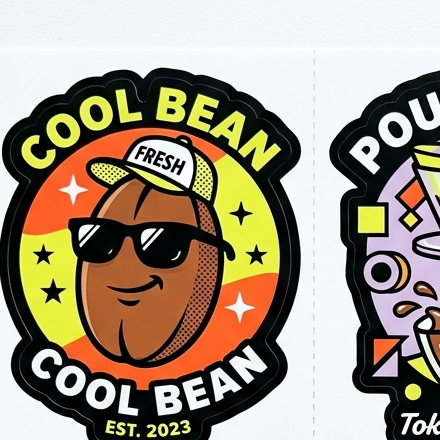
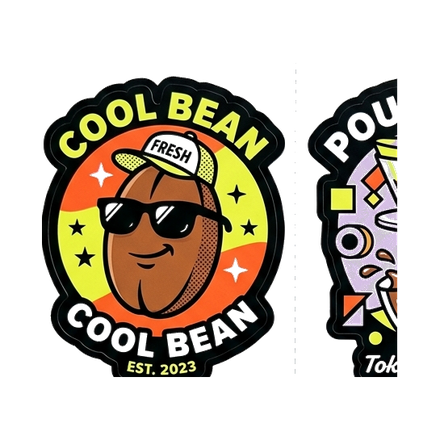
feat: process card assets to 1:1 square RGBA with clean alpha masking

diff --git a/scripts/process_card_assets.py b/scripts/process_card_assets.py
@@ -1,0 +1,92 @@
+"""
+Process card assets for BeanTag.
+- Converts opaque hero/metric backgrounds to transparent RGBA with 15-step color feathering.
+- Calculates tight getbbox() of visible content.
+- Centers cropped illustration into a 1:1 square canvas with balanced 12% padding.
+- Normalizes size to 440x440 px with LANCZOS resampling.
+- Saves back with optimize=True.
+"""
+import os
+from PIL import Image
+
+CARDS_DIR = os.path.abspath(
+    os.path.join(os.path.dirname(__file__), "..", "frontend", "src", "assets", "cards")
+)
+
+# Color key definitions for opaque hero backgrounds
+HERO_BG_COLORS = {
+    "blueprint_hero.png": (2, 28, 51),
+    "neobrutalist_hero.png": (235, 240, 244),
+    "aurora_hero.png": (29, 32, 39),
+    "hangtag_hero.png": (246, 240, 228),
+}
+
+
+def remove_background(img: Image.Image, bg_color: tuple, tolerance: float = 35.0) -> Image.Image:
+    img = img.convert("RGBA")
+    data = img.get_flattened_data() if hasattr(img, "get_flattened_data") else img.getdata()
+    new_data = []
+    br, bg, bb = bg_color[:3]
+    for item in data:
+        r, g, b, a = item
+        # Euclidean color distance in RGB space
+        dist = ((r - br) ** 2 + (g - bg) ** 2 + (b - bb) ** 2) ** 0.5
+        if dist < tolerance:
+            new_data.append((r, g, b, 0))
+        elif dist < tolerance + 15:
+            # Smooth 15-step feathering gradient
+            feathered_alpha = int(255 * ((dist - tolerance) / 15.0))
+            new_data.append((r, g, b, min(a, feathered_alpha)))
+        else:
+            new_data.append((r, g, b, a))
+    img.putdata(new_data)
+    return img
+
+
+def make_square_centered(img: Image.Image, padding_ratio: float = 0.12) -> Image.Image:
+    bbox = img.getbbox()
+    if not bbox:
+        return img
+    cropped = img.crop(bbox)
+    cw, ch = cropped.size
+    max_dim = max(cw, ch)
+    target_dim = int(max_dim * (1 + padding_ratio * 2))
+
+    square = Image.new("RGBA", (target_dim, target_dim), (0, 0, 0, 0))
+    offset_x = (target_dim - cw) // 2
+    offset_y = (target_dim - ch) // 2
+    square.paste(cropped, (offset_x, offset_y), cropped)
+    return square
+
+
+def process_all_assets():
+    if not os.path.exists(CARDS_DIR):
+        raise FileNotFoundError(f"Cards directory not found: {CARDS_DIR}")
+
+    files = sorted([f for f in os.listdir(CARDS_DIR) if f.endswith(".png")])
+    print(f"Processing {len(files)} card assets from {CARDS_DIR}...")
+
+    for filename in files:
+        filepath = os.path.join(CARDS_DIR, filename)
+        img = Image.open(filepath).convert("RGBA")
+
+        # 1. Background removal if hero or opaque metric
+        if filename in HERO_BG_COLORS:
+            img = remove_background(img, HERO_BG_COLORS[filename])
+        elif img.getpixel((0, 0))[3] == 255:
+            corner_color = img.getpixel((0, 0))[:3]
+            img = remove_background(img, corner_color)
+
+        # 2. Re-center in square canvas with balanced 12% padding
+        square_img = make_square_centered(img, padding_ratio=0.12)
+
+        # 3. Normalize size to 440x440 with LANCZOS resampling
+        final_img = square_img.resize((440, 440), Image.Resampling.LANCZOS)
+
+        # 4. Save back with optimize=True
+        final_img.save(filepath, "PNG", optimize=True)
+        print(f"✓ Processed: {filename} -> 440x440 RGBA (optimized)")
+
+
+if __name__ == "__main__":
+    process_all_assets()

diff --git a/scripts/test_asset_processing.py b/scripts/test_asset_processing.py
@@ -1,0 +1,86 @@
+"""
+Test suite for card asset processing.
+Verifies:
+1. Exactly 21 PNG files exist in frontend/src/assets/cards/.
+2. Every image is square (width == height).
+3. Every image is in mode 'RGBA'.
+4. The 4 corners of every image have alpha == 0 (fully transparent background).
+"""
+import os
+import unittest
+from PIL import Image
+
+CARDS_DIR = os.path.abspath(
+    os.path.join(os.path.dirname(__file__), '..', 'frontend', 'src', 'assets', 'cards')
+)
+
+
+class TestAssetProcessing(unittest.TestCase):
+    @classmethod
+    def setUpClass(cls):
+        cls.files = sorted([f for f in os.listdir(CARDS_DIR) if f.endswith('.png')])
+
+    def test_file_count(self):
+        """1. Exactly 21 PNG files exist in frontend/src/assets/cards/."""
+        self.assertEqual(
+            len(self.files),
+            21,
+            f"Expected 21 PNG files in {CARDS_DIR}, found {len(self.files)}: {self.files}"
+        )
+
+    def test_images_are_square(self):
+        """2. Every image is square (width == height)."""
+        non_square = []
+        for filename in self.files:
+            filepath = os.path.join(CARDS_DIR, filename)
+            with Image.open(filepath) as img:
+                w, h = img.size
+                if w != h:
+                    non_square.append(f"{filename} ({w}x{h})")
+        self.assertEqual(
+            len(non_square),
+            0,
+            f"Expected all images to be square, but found non-square images: {non_square}"
+        )
+
+    def test_images_are_rgba(self):
+        """3. Every image is in mode 'RGBA'."""
+        non_rgba = []
+        for filename in self.files:
+            filepath = os.path.join(CARDS_DIR, filename)
+            with Image.open(filepath) as img:
+                if img.mode != 'RGBA':
+                    non_rgba.append(f"{filename} (mode: {img.mode})")
+        self.assertEqual(
+            len(non_rgba),
+            0,
+            f"Expected all images to be in mode 'RGBA', but found: {non_rgba}"
+        )
+
+    def test_corners_are_transparent(self):
+        """4. The 4 corners of every image have alpha == 0 (fully transparent background)."""
+        opaque_corners = []
+        for filename in self.files:
+            filepath = os.path.join(CARDS_DIR, filename)
+            with Image.open(filepath) as img:
+                img_rgba = img.convert('RGBA') if img.mode != 'RGBA' else img
+                w, h = img_rgba.size
+                corners = {
+                    'top-left': img_rgba.getpixel((0, 0)),
+                    'top-right': img_rgba.getpixel((w - 1, 0)),
+                    'bottom-left': img_rgba.getpixel((0, h - 1)),
+                    'bottom-right': img_rgba.getpixel((w - 1, h - 1)),
+                }
+                bad_corners = {pos: px for pos, px in corners.items() if px[3] != 0}
+                if bad_corners:
+                    opaque_corners.append(f"{filename}: {bad_corners}")
+        self.assertEqual(
+            len(opaque_corners),
+            0,
+            f"Expected all 4 corners to have alpha == 0, but found opaque corners:\n"
+            + "\n".join(opaque_corners)
+        )
+
+
+if __name__ == '__main__':
+    unittest.main()
